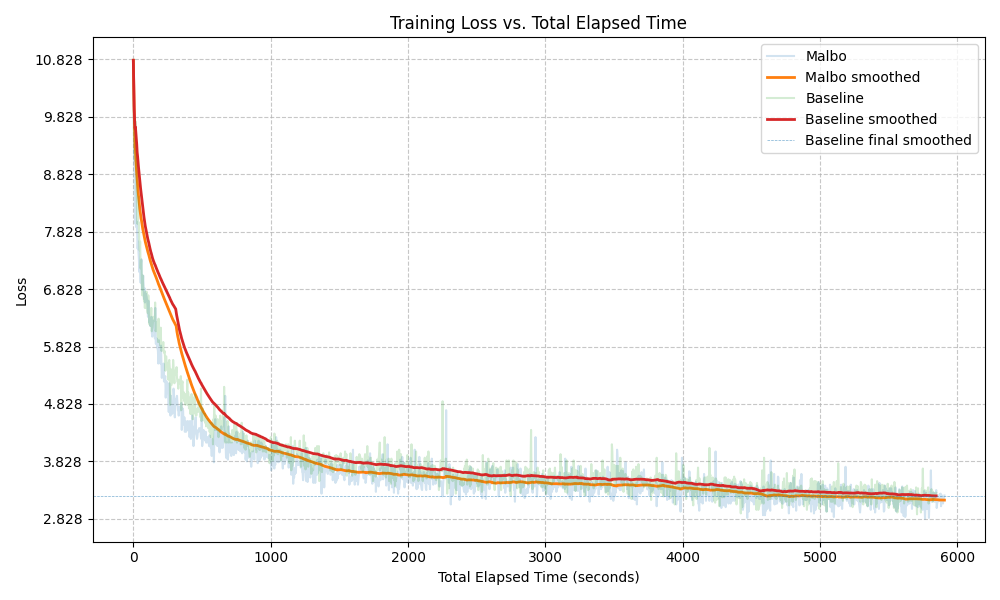
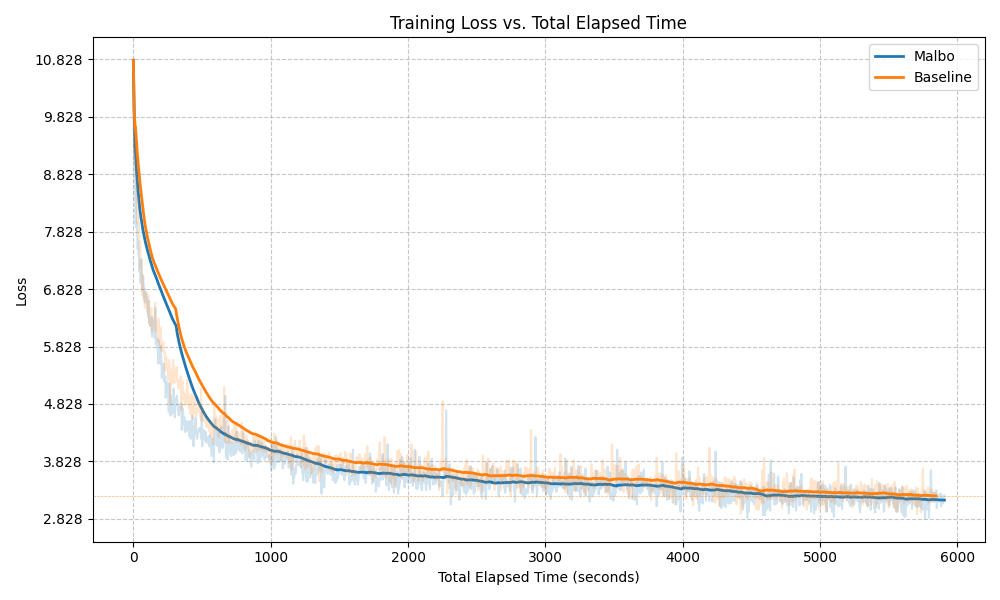
better loss plot

Changed region(s): [[0.124, 0.15, 0.961, 0.87], [0.775, 0.06, 0.992, 0.27]]

diff --git a/plot_loss.py b/plot_loss.py
@@ -60,12 +60,12 @@ for label, filename in files.items():
     try:
         x_time, y_loss = parse_experiment_log(filename)
         df = pd.DataFrame({'time': x_time, 'loss': y_loss})
-        plt.plot(df['time'], df['loss'] - min_y_loss, alpha=0.2, label=label)
+        line, = plt.plot(df['time'], df['loss'] - min_y_loss, alpha=0.2)
         smoothed_loss = df['loss'].rolling(window=100, min_periods=1).mean()
-        plt.plot(df['time'], smoothed_loss - min_y_loss, linewidth=2, label=f'{label} smoothed')
+        plt.plot(df['time'], smoothed_loss - min_y_loss, linewidth=2, label=label, color=line.get_color())
 
-        if label == 'Baseline':
-            plt.axhline(smoothed_loss.iloc[-1] - min_y_loss, linestyle='--', linewidth=0.5, alpha=0.6, label=f'{label} final smoothed')
+        if label.startswith('Baseline'):
+            plt.axhline(smoothed_loss.iloc[-1] - min_y_loss, linestyle='--', linewidth=0.5, alpha=0.6, color=line.get_color())
     except FileNotFoundError:
         print(f"File {filename} not found.")
 
